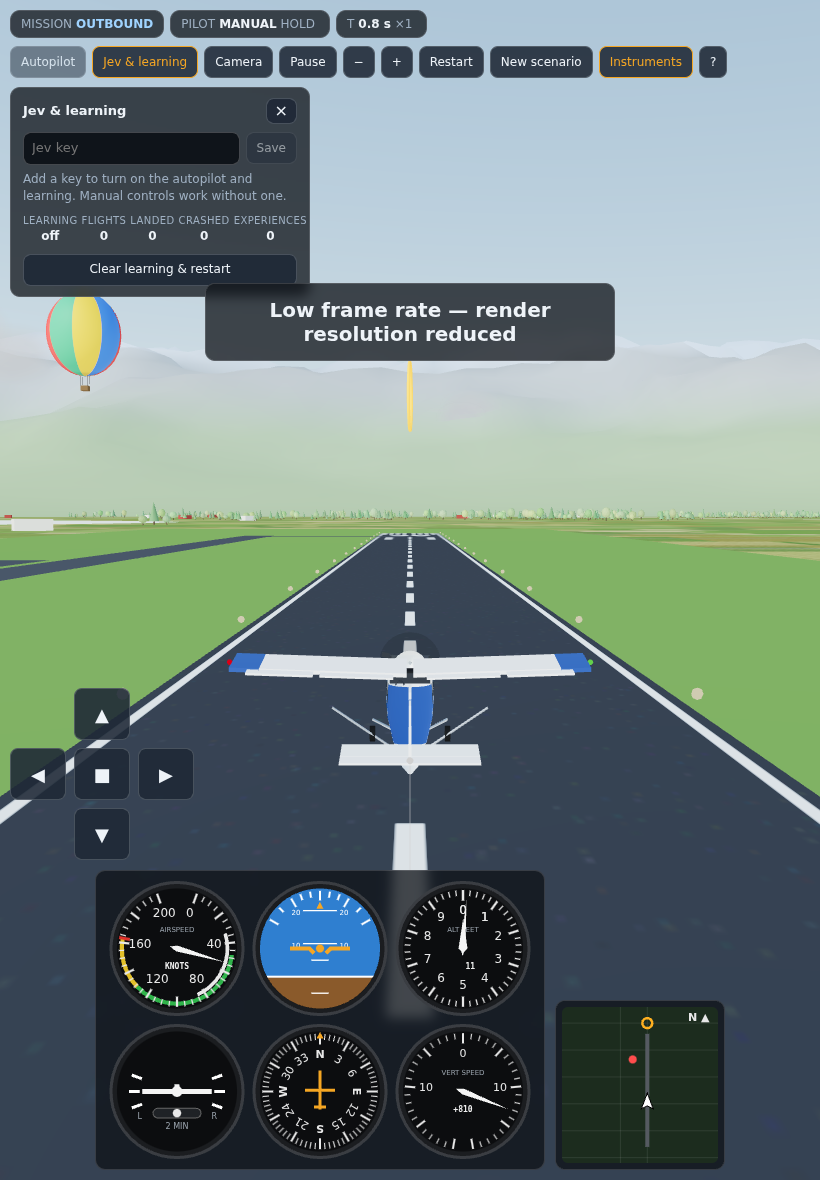
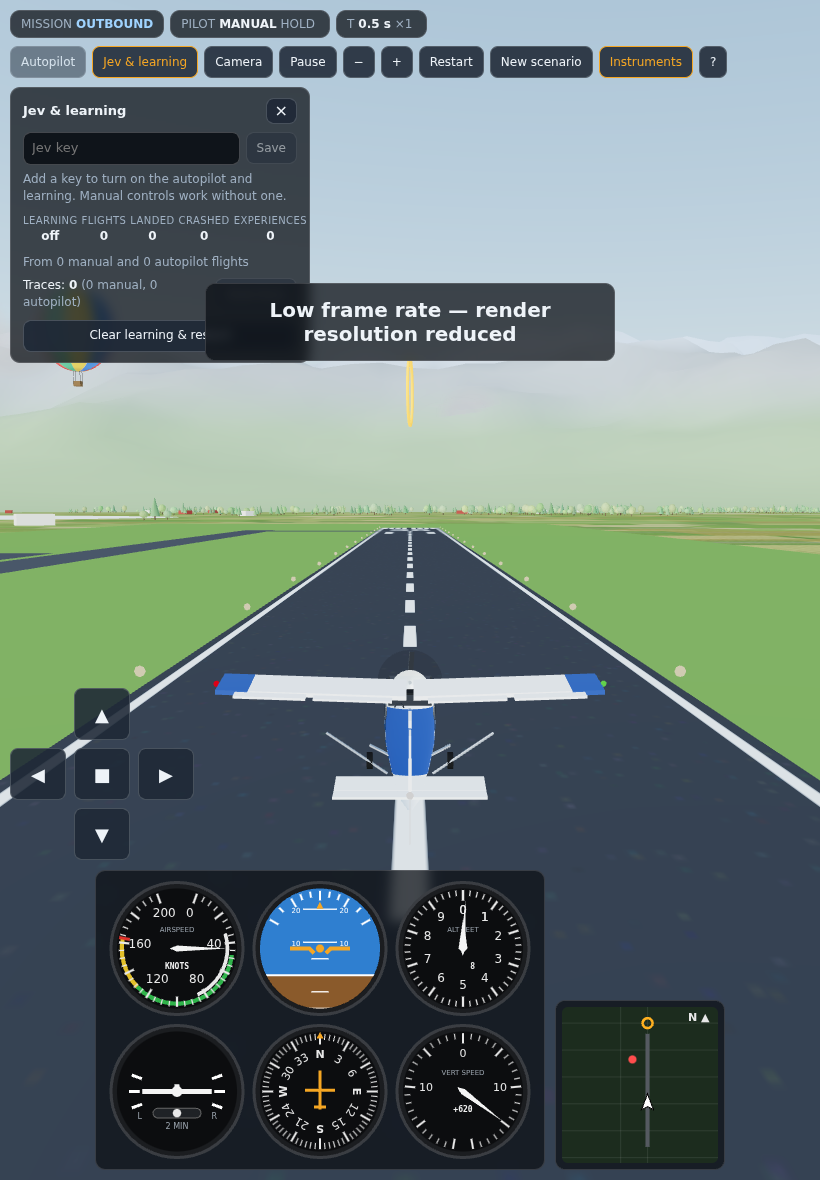
docs(qa): re-run for manual + autopilot learning and traces (66/66)
Claude-Session: https://claude.ai/code/session_01NaGAzT6MRnBTUbebrTjKhd

diff --git a/.gstack/qa-reports/qa-report-flight-world-2026-09-26.md b/.gstack/qa-reports/qa-report-flight-world-2026-09-26.md
@@ -62,9 +62,23 @@ On a 390×844 phone the on-screen yoke sat on top of **Start (manual)**, so the 
 - **Manual flight regression:** without a key, holding `W` starts the take-off roll and climbs above 10 m. The touch yoke flies the aircraft on phone and iPad. The panel closes.
 - **Console:** no application errors (SwiftShader "GPU stall" driver warnings excluded).
 
+## Follow-up: manual and autopilot both feed learning and traces (commit 802e495)
+
+Re-ran the full script after the change; **66/66 checks pass**. New checks:
+
+- The autopilot flight is credited to the autopilot and stored as pilot intents (`CLIMB`, `HOLD`, `TURN_*`, `DESCEND`, `SLOW`), not autopilot modes.
+- A flight started by hand (`W` to climb out) and handed to the autopilot (`A`) lands and is credited to **both** pilots: 1 manual + 2 autopilot flights, with pairs flown by both (`06b-mixed-flight-learned`).
+- A restarted manual flight becomes an `ABANDONED` trace and teaches nothing.
+- **Download** produces `flight-traces-*.jsonl` (3 flights, bigint ticks as `"123n"`), and the Control Room replays it with manual and autopilot decisions and their terminal outcomes (`06c-control-room-replay`).
+- Clear removes traces too, and the restart that follows does not re-add one.
+
+### ISSUE-004: panel covered the Start card on phones — medium, UX — fixed
+
+The per-pilot learning line and traces row made the panel overlap the Start card (and the yoke once flying) on a 390×844 touch phone. The copy is shorter now, and on touch phones the panel height is capped so it scrolls above that area. The script now also checks panel vs. yoke while flying.
+
 ## Not tested
 
 - The key is not sent to any Jev service: this repository defines no TypeSafe Jev API (see LOCAL_RUN.md), so the key gates the autopilot and learning locally.
 - Real GPU performance and frame rate.
 
-> QA found 3 issues, fixed 3, health score 97 → 100.
+> QA found 4 issues, fixed 4, health score 97 → 100.
